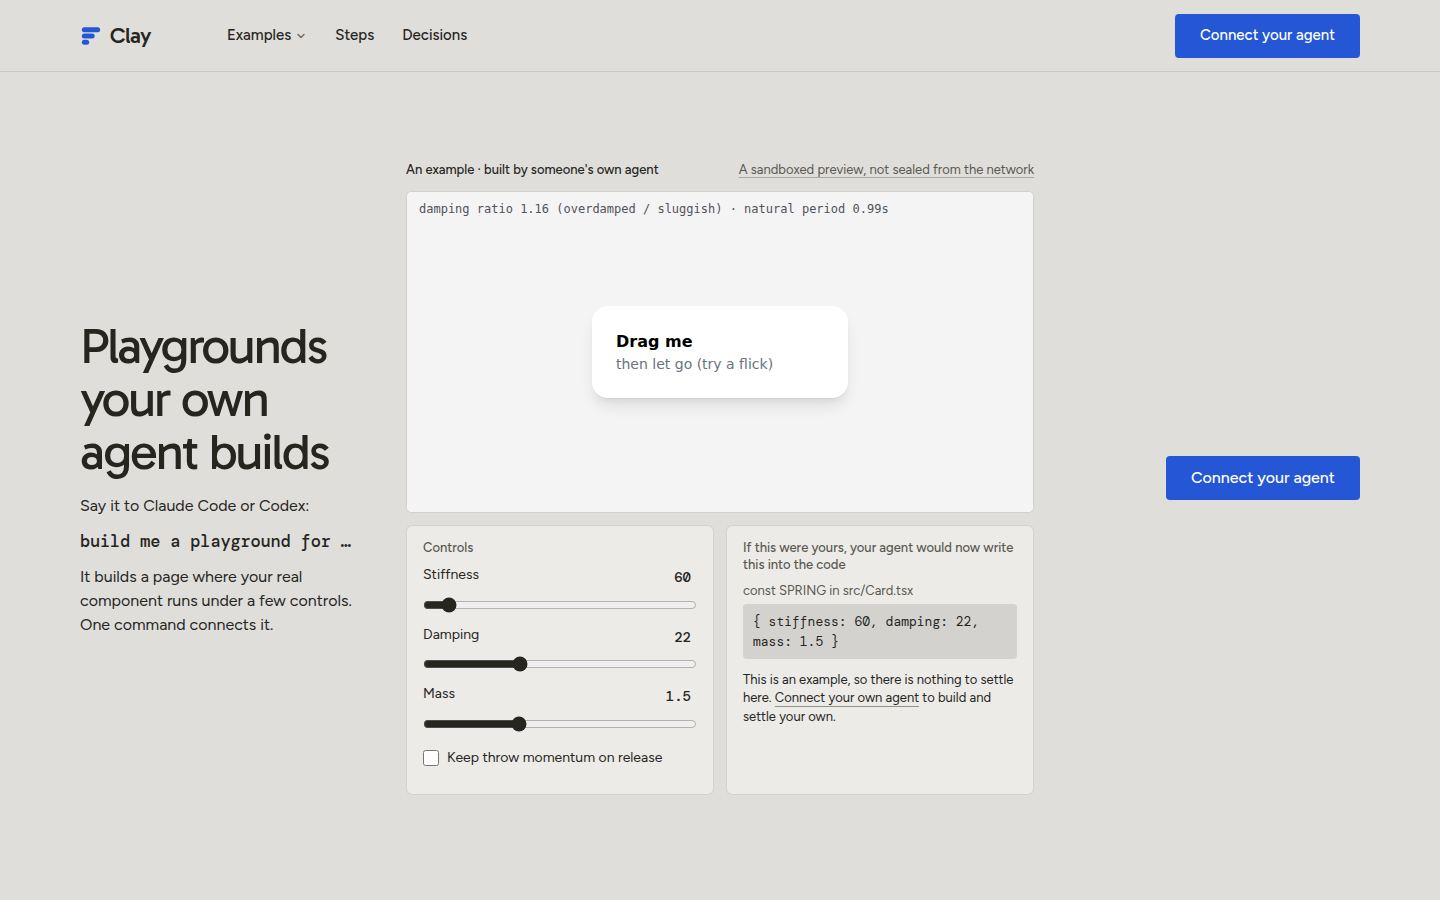
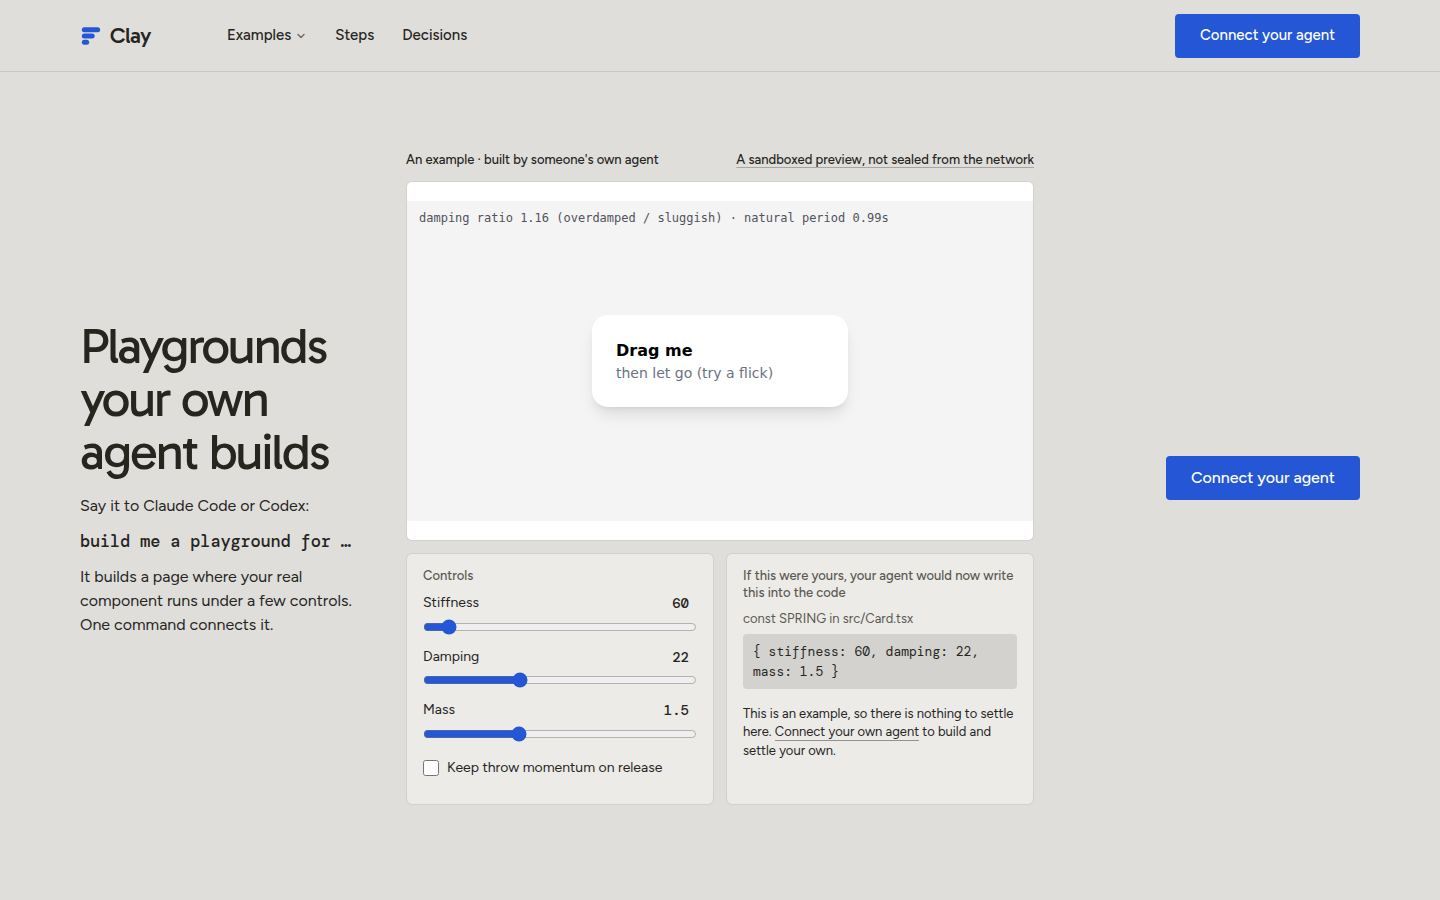
fix(web): sections grow on short screens, unknown addresses keep Clay's own 404 page
- A section of the landing page keeps one screen as its least height and grows with what
  it holds on a screen shorter or narrower than 1440x900, so nothing lies on the next
  section on a 13-inch laptop or a tablet. A small phone lets the hero grow instead of
  squeezing the live preview.
- An address that no page has is sent to the app's own Not found page again (a catch-all
  under the app pages), with status 404: with two root layouts the framework showed its
  default page.
- Colour swatches are 44 px on a touch screen.
- The kit's script marks [bracketed] text as a placeholder; in Clay's own blocks square
  brackets are code, so they get no outline.

diff --git a/app/(site)/site.css b/app/(site)/site.css
@@ -1,7 +1,7 @@
 /* Page CSS of the website pages: only what sits inside a visual and the kit lacks (Taste Skill, SKILL.md step 5). */
 
 /* The hero's collage holds one set, the live example: Clay's own UI. Its parts stand as the collage's pieces. */
-.live .k-root { position: absolute; inset: 0; display: grid; grid-template-columns: minmax(0, 1fr) minmax(0, 1fr); grid-template-rows: auto auto auto; align-content: center; gap: 12px; font: 14px/1.4 var(--font-text); color: var(--p-ink); }
+.live .k-root { position: absolute; inset: 0; display: grid; grid-template-columns: minmax(0, 1fr) minmax(0, 1fr); grid-template-rows: auto minmax(0, 360px) auto; align-content: center; gap: 12px; font: 14px/1.4 var(--font-text); color: var(--p-ink); }
 .live .k-root > div, .live .k-main { display: contents; }
 .live .k-notes, .live .k-data, .live .k-head p:not(.eyebrow) { display: none; }
 .live :is(.k-stage, .k-controls, .k-out) { margin: 0; min-width: 0; background: var(--c-pane); border: 1px solid var(--c-line); border-radius: var(--r-md); overflow: hidden; }
@@ -20,7 +20,7 @@
 .live .k-controls > p:last-child { display: none; }
 .live .k-out { grid-area: 3 / 2; padding: 14px 16px; }
 .live .k-out > div:nth-of-type(n + 2) { display: none; }
-.live .k-out pre { font: 13px/1.5 var(--font-mono); background: var(--p-surface); border-radius: var(--r-sm); padding: 8px 10px; margin: 0; white-space: pre-wrap; overflow-wrap: anywhere; max-height: 4.6em; overflow: hidden; }
+.live .k-out pre { font: 13px/1.5 var(--font-mono); background: var(--p-surface); border-radius: var(--r-sm); padding: 8px 10px; margin: 0; white-space: pre-wrap; overflow-wrap: anywhere; max-height: 6.2em; overflow: hidden; }
 .live .k-out [data-example] { margin: 10px 0 0; font-size: 13px; color: var(--p-ink); }
 .live .k-out [data-example] a { text-decoration: underline; text-underline-offset: 2px; }
 .live .small { font-size: 13px; } .live .muted { color: var(--p-muted); }
@@ -72,21 +72,17 @@ html[data-type] .hero--triptych .hero__cta .btn { height: var(--btn-h); font-siz
 .decisions__text .stats { margin-top: auto; }
 .shot__answer { color: var(--ok); }
 .decisions__text { display: flex; flex-direction: column; gap: var(--s-7); }
-.gallery > li { align-items: baseline; padding-block: 13px; }
+/* Two classes: the kit's stylesheets load after this file, so a rule of equal weight would lose to them. */
+.rows.gallery > li, .rows.gallery > li:first-child { align-items: baseline; padding-block: 10px; }
 #examples .section-head { max-width: none; }
 .gallery .rows__name { font-size: 18px; }
-.gallery__live { align-self: stretch; overflow: hidden; background: #fff; padding: 0; display: block; }
+.frame.gallery__live { align-self: stretch; overflow: hidden; background: #fff; padding: 0; display: block; }
 .gallery__live iframe { width: 100%; height: 100%; min-height: 260px; border: 0; display: block; }
 @media (min-width: 1024px) { .stats { grid-template-columns: repeat(4, minmax(0, 1fr)); } .decisions__text { gap: var(--s-6); } }
-@media (min-width: 640px) and (max-width: 1279px) {
-  #steps, #examples { --h: 2; }
-  .gallery > li { padding-block: 22px; }
-}
 @media (max-width: 1023px) {
   .decisions__file, .gallery__live { margin-top: var(--s-7); min-height: 320px; }
   .shot--file { padding: var(--s-5); font-size: 14px; }
 }
-@media (min-width: 640px) and (max-width: 1023px) { .gallery__live { min-height: 480px; } }
 @media (max-width: 639px) {
   #examples, #decisions { --h: 2; --hm: 2; height: auto; min-height: calc(2 * 100lvh); }
   #examples .fill, #decisions .fill { flex: none; }
@@ -112,3 +108,26 @@ main > .section.doc > .wrap { height: auto; }
 .doc__steps details > p { margin-top: 12px; }
 .doc-foot { padding: var(--s-5) 0 var(--s-7); }
 @media (max-width: 1023px) { .doc__steps { margin-top: var(--s-7); } }
+/* The kit's script outlines any [bracketed] text as a forgotten placeholder. In Clay's own blocks square brackets are
+   real code (a TOML table name, an array), so no outline there. */
+.clay [data-placeholder], .live [data-placeholder] { outline: none !important; }
+
+/* A screen shorter or narrower than the one the sections are cut for (a 13-inch laptop, a tablet): a section keeps its
+   one screen as the least height and grows with what it holds, so nothing ever lies on the next section. At 1440x900
+   every section is still exactly one screen. A phone keeps the kit's own rule. */
+@media (min-width: 640px) {
+  main > .section:not(.hero), footer.closing { height: auto; min-height: calc(var(--h, 1) * 100svh); }
+  main > .section:not(.hero) > .wrap, footer.closing > .wrap { height: auto; min-height: calc(var(--h, 1) * 100svh - var(--padt) - var(--padb)); }
+  main > .section:not(.hero) > .wrap > .fill { flex: 1 0 auto; }
+}
+.asked { padding-top: var(--s-6); }
+@media (min-width: 640px) {
+  /* The close and the links stack at their own heights, so the large word never lies on the links on a short screen. */
+  footer.closing > .wrap { grid-template-rows: auto auto; row-gap: var(--s-7); align-content: space-between; }
+  footer.closing .close__word { font-size: clamp(64px, min(14.5vw, 24svh), 216px); padding-bottom: 0.2em; }
+}
+/* A small phone (under 780 px tall): the hero grows past the screen instead of squeezing the live preview. */
+@media (max-width: 639px) and (max-height: 780px) {
+  main > .hero.hero--triptych { height: auto; min-height: 100svh; }
+  .hero--triptych .ly-collage.live { flex: none; height: 340px; min-height: 340px; }
+}

diff --git a/app/(site)/page.tsx b/app/(site)/page.tsx
@@ -152,7 +152,7 @@ export default async function Home() {
                 </ul>
                 {second && (
                   <div className="frame span-5 start-8 gallery__live">
-                    <iframe src={`/p/${second}/frame`} sandbox="allow-scripts" referrerPolicy="no-referrer" loading="lazy" title={`The example “${titleOf(playgrounds[second], second)}”, running`} />
+                    <iframe src={`/p/${second}/frame`} sandbox="allow-scripts" referrerPolicy="no-referrer" title={`The example “${titleOf(playgrounds[second], second)}”, running`} />
                   </div>
                 )}
               </div>

diff --git a/app/(app)/[...rest]/page.tsx b/app/(app)/[...rest]/page.tsx
@@ -1,0 +1,10 @@
+import { notFound } from "next/navigation";
+
+/**
+ * Any address that no page has. The website pages and the app pages have root layouts of their own, so the framework has
+ * no single layout for an unknown address and would show its default page; this sends it to the app's own "Not found"
+ * page (app/(app)/not-found.tsx), with status 404, as before the two layouts existed.
+ */
+export default function Unknown() {
+  notFound();
+}

diff --git a/app/kit.module.css b/app/kit.module.css
@@ -72,3 +72,8 @@
 /* "The preview changed": it stays at the foot of the screen while the controls are in view, inside their own pane. */
 .jump { position: sticky; bottom: 12px; z-index: 3; width: 100%; margin-top: 12px; }
 .stage { scroll-margin-top: 12px; }
+@media (pointer: coarse), (max-width: 700px) {
+  .swatches button { width: 44px; height: 44px; }
+  .swatches input[type="color"] { width: 48px; height: 44px; }
+  .swatches { gap: 8px; }
+}
